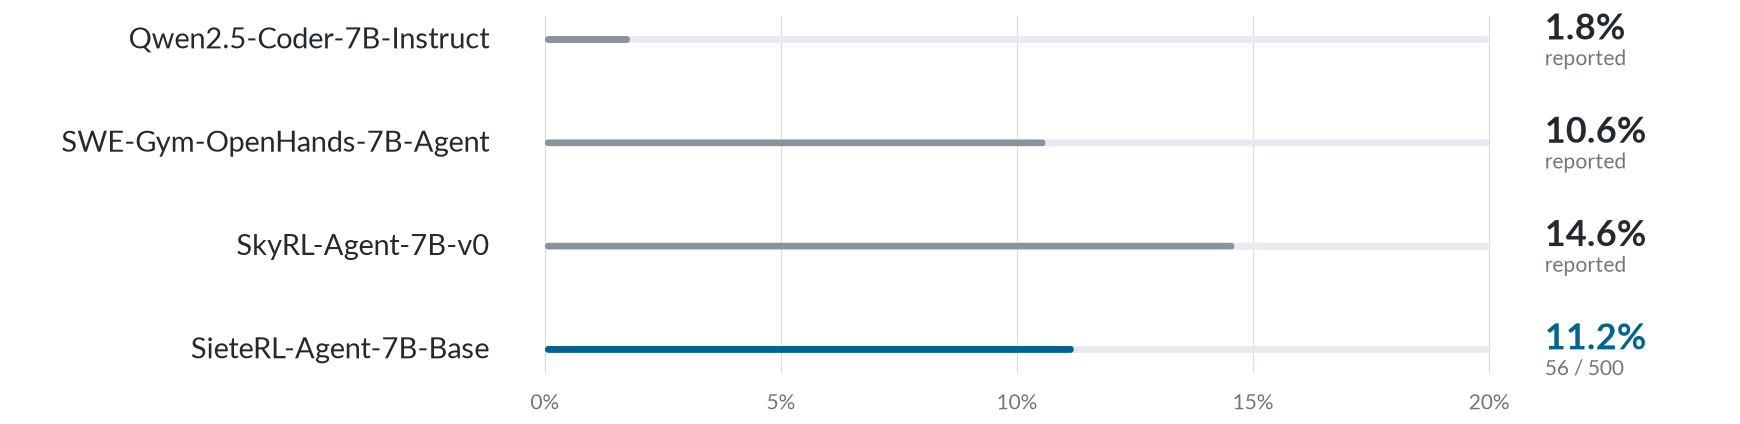
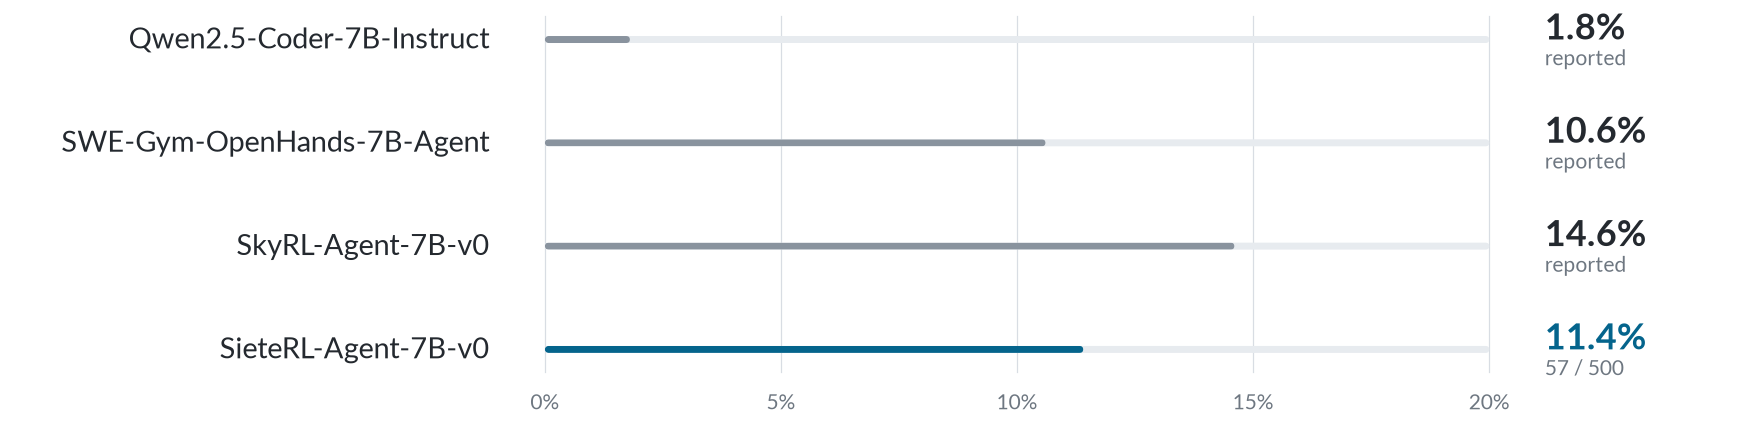
docs: 更新参考奖励消融结果

Changed region(s): [[0.0931, 0.7972, 0.2793, 0.8585], [0.9, 0.7665, 0.931, 0.8278]]

diff --git a/docs/results.md b/docs/results.md
@@ -2,6 +2,19 @@
 
 Local records for SieteRL training and SWE-bench Verified evaluation, listed newest first under a fixed [evaluation protocol](#evaluation-protocol).
 
+## 2026-08-13 — Reference reward ablation
+
+[![Scaffold v3](https://img.shields.io/badge/Scaffold-v3-04648c.svg)](#scaffold-compatibility)
+
+> **Result:** Adding a fixed `1.0` reference reward resolved three more tasks, from 54/500 to 57/500, without materially changing training reward diversity.
+
+| Variant | Mean reward | Non-degenerate groups | SWE-bench Verified | Δ vs. No reference |
+|---|---:|---:|---:|---:|
+| No reference reward | 0.13138 | 31/100 | **54/500 (10.8%)** | — |
+| **Reference reward (`1.0`)** | 0.13143 | 32/100 | **57/500 (11.4%)** | +3 |
+
+**Analysis.** The variants differed only in `extra_reference_rewards`: the reference variant included `[1.0]`, while the ablated variant used `[]`. The reference reward is included in the GRPO group baseline but is not a sampled rollout. The 0.6-point Verified gap from one training seed and one deterministic evaluation rollout is directional rather than statistically conclusive.
+
 ## 2026-08-12 — Credit attribution refinement
 
 [![Scaffold v3](https://img.shields.io/badge/Scaffold-v3-04648c.svg)](#scaffold-compatibility)
